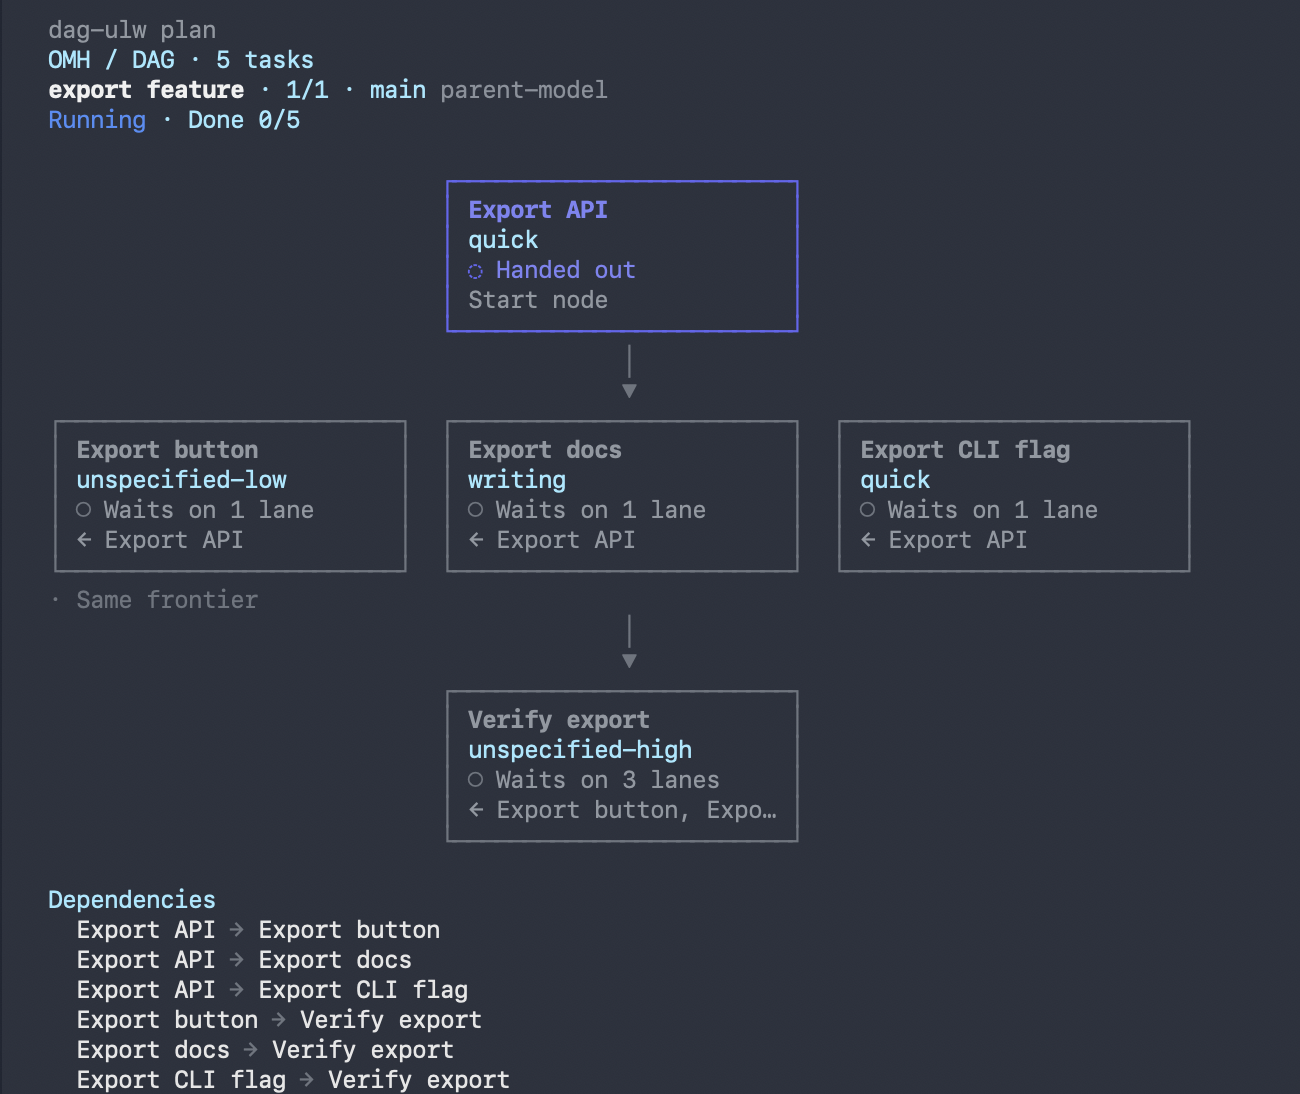
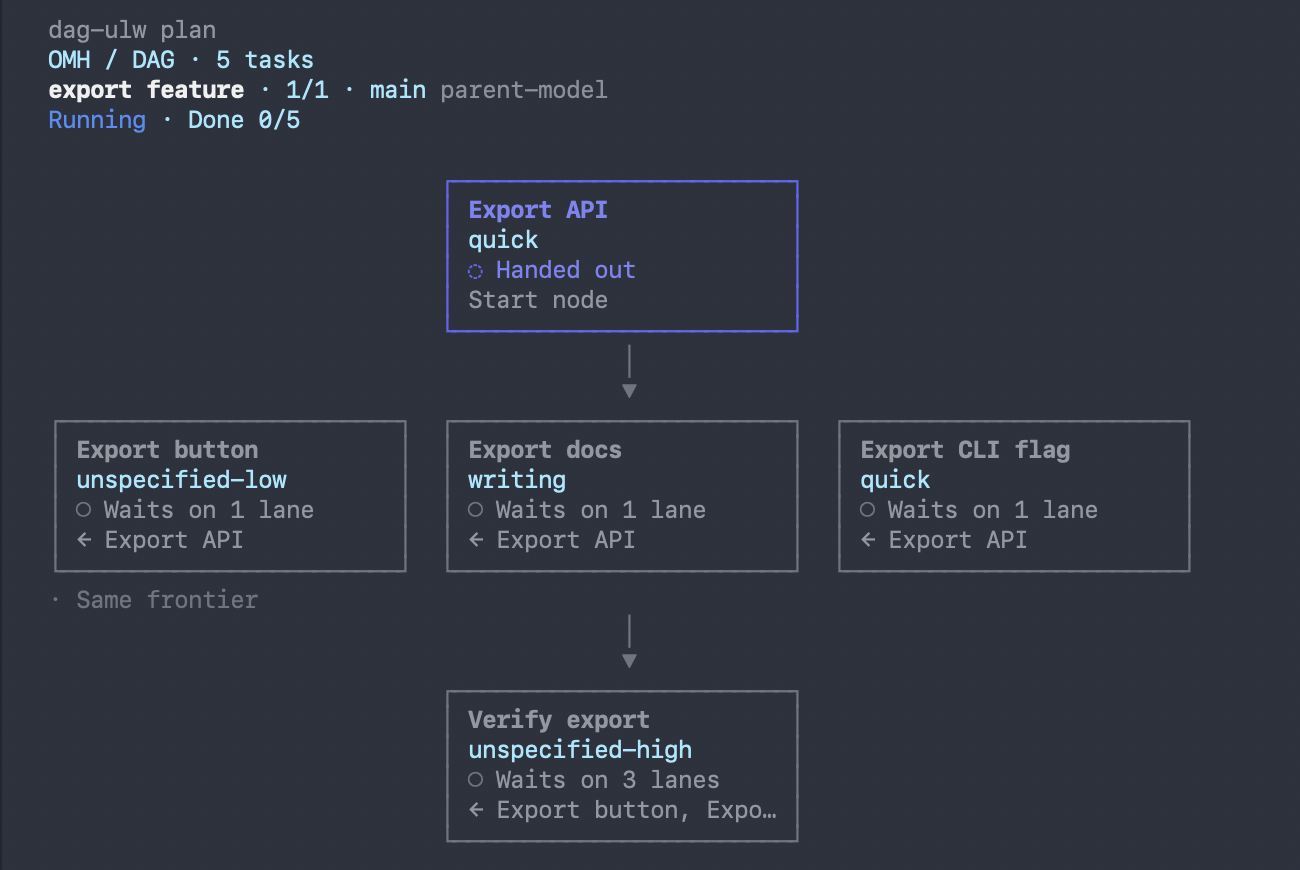
fix(tui): switch the dag print on its lane count, keeping every box of a small run
The first commit condensed any print taller than the screen rows minus
the agent view and the composer. At 150x42 that budget was 28 rows.
The owner wants the ASCII box graph visible, but the GIF scene's 5-node
chain (49 rows whole) and the audit's 7-node plan (39 rows) were each
cut to one box at define.

- dag_block: the switch is now the run's lane count, hidden lanes
  included. A run of up to 12 lanes (SMALL_GRAPH_LANES) prints every box
  and arrow, at define, repair, extend and end; at the end, the boxes'
  final states are the tally. A bigger run keeps the condensed form. No
  print holds the Dependencies list or the Node details: the arrows draw
  every edge, and /dag keeps both.
- app: the rows budget (_dag_print_rows, DAG_PRINT_RESERVED_ROWS,
  DAG_PRINT_MIN_ROWS) is gone. The height of the terminal no longer
  decides whether the graph is shown.
- assets/omh-tui-dag-ulw-plan-block.png: cropped above the Dependencies
  list, which the print no longer has; the boxes above it are unchanged.

Constraint: owner direction via team-lead: a small graph must show every box; a terminal's height must not decide it
Rejected: fold a lone parent's "← parent" row into the arrow above the box | it changes the shared box renderer that /dag and omh hud --graph use, and the V5 box look the owner approved, to save one row per box; a 5-chain still would not fit a 42-row screen
Confidence: high
Scope-risk: narrow
[…]

diff --git a/tests/test_dag_transcript.py b/tests/test_dag_transcript.py
@@ -118,11 +118,12 @@ class BlockTests(unittest.TestCase):
         block = dag_block.DagBlock("repair · +1 node", repaired)
         boxes, tree = self._text(block, 140), self._text(block, 24)
         self.assertEqual(boxes[0].strip(), "dag-ulw repair · +1 node")
-        # As boxes: the drawing's own repair mark, a parents line naming the node it repairs, and the repair edge
-        # under Dependencies; the block adds no mark of its own, so none is doubled.
+        # As boxes: the drawing's own repair mark, a parents line naming the node it repairs and the arrow into its
+        # box; the block adds no mark of its own, so none is doubled. No Dependencies list: the arrows are the edges.
         added = next(index for index, line in enumerate(boxes) if "↻ Fix the button" in line)
         self.assertIn("← Export button", boxes[added + 3])
-        self.assertIn("Export button → Fix the button (repair)", "\n".join(boxes))
+        self.assertIn("▼", boxes[added - 2])
+        self.assertNotIn("Dependencies", "\n".join(boxes))
         self.assertFalse([line for line in boxes if "+ " in line and "Fix" in line], boxes)
         # As the tree: nested under the node it repairs.
         failed = next(index for index, line in enumerate(tree) if "Export bu" in line)
@@ -185,22 +186,37 @@ def big_run(sizes: tuple[int, ...], states: dict[str, str] | None = None) -> dic
 
 
 class CondensedTests(unittest.TestCase):
-    """A print bigger than about one screen is condensed: its header, a row per layer, the boxes the moment changed
-    and how many nodes it leaves to `/dag`; a big run's end is its tally and the nodes that stopped."""
+    """A run of up to `SMALL_GRAPH_LANES` lanes prints every box; a bigger one is condensed: its header, a row per
+    layer, the boxes the moment changed and how many nodes it leaves to `/dag`; a big run's end is its tally and the
+    nodes that stopped. Neither prints Dependencies or Node details, which `/dag` keeps."""
 
     @staticmethod
     def _text(block: dag_block.DagBlock, width: int = 140) -> list[str]:
         return ["".join(span.text for span in line) for line in block_rows(block, width, THEME)]
 
-    def test_a_print_that_fits_is_drawn_whole_and_a_bigger_one_condensed(self) -> None:
-        small, big = big_run((2, 1)), big_run((4, 40, 1))
-        whole = self._text(dag_block.DagBlock("plan", small))
-        self.assertEqual(self._text(dag_block.DagBlock("plan", small, max_rows=len(whole))), whole, "it fits")
-        self.assertIn("Dependencies", "\n".join(whole))
-        unbounded = self._text(dag_block.DagBlock("plan", big))
-        condensed = self._text(dag_block.DagBlock("plan", big, max_rows=30))
-        self.assertGreater(len(unbounded), 100)
-        self.assertLessEqual(len(condensed), 30)
+    def test_twelve_lanes_print_every_box_and_thirteen_condense(self) -> None:
+        self.assertEqual(dag_block.SMALL_GRAPH_LANES, 12)
+        small = self._text(dag_block.DagBlock("plan", big_run((4, 7, 1))))
+        text = "\n".join(small)
+        self.assertEqual([index for index in range(1, 14) if f"Migrate service {index} config " in text],
+                         list(range(1, 13)), "every box")
+        self.assertIn("┌", text)
+        self.assertTrue(any("│" in line and "Waiting" in line for line in small))
+        for gone in ("Dependencies", "Node details", "more nodes", "layer 1 ·"):
+            self.assertNotIn(gone, text)
+        big = self._text(dag_block.DagBlock("plan", big_run((4, 8, 1))))
+        self.assertEqual([line.strip() for line in big[:5]], [
+            "dag-ulw plan", "DAG · service migration · 13 nodes · 9 edges · 13 waiting",
+            "layer 1 · 4 nodes · 4 waiting", "layer 2 · 8 nodes · 8 waiting", "layer 3 · 1 node · 1 waiting"])
+        self.assertEqual(big[-1].strip(), "… 9 more nodes · /dag shows the whole graph")
+        # Lanes the graph reader left out count: 12 drawn and 1 hidden is a run of 13.
+        hidden = self._text(dag_block.DagBlock("plan", {**big_run((4, 7, 1)), "hidden_nodes": 1}))
+        self.assertEqual(hidden[-1].strip(), "… 9 more nodes · /dag shows the whole graph")
+
+    def test_a_big_print_is_condensed_whatever_the_screen(self) -> None:
+        big = big_run((4, 40, 1))
+        condensed = self._text(dag_block.DagBlock("plan", big))
+        self.assertLessEqual(len(condensed), 20)
         self.assertEqual([line.strip() for line in condensed[:5]], [
             "dag-ulw plan", "DAG · service migration · 45 nodes · 41 edges · 45 waiting",
             "layer 1 · 4 nodes · 4 waiting", "layer 2 · 40 nodes · 40 waiting", "layer 3 · 1 node · 1 waiting"])
@@ -214,13 +230,13 @@ class CondensedTests(unittest.TestCase):
 
     def test_a_layer_cut_by_the_graph_reader_says_what_it_kept_of_how_many(self) -> None:
         big = {**big_run((4, 40, 1)), "hidden_by_group": {"layer 2": 600}, "hidden_nodes": 600}
-        condensed = self._text(dag_block.DagBlock("plan", big, max_rows=30))
+        condensed = self._text(dag_block.DagBlock("plan", big))
         self.assertEqual(condensed[3].strip(), "layer 2 · 40 of 640 nodes · 40 waiting")
         self.assertEqual(condensed[-1].strip(), "… 641 more nodes · /dag shows the whole graph")
 
     def test_a_repair_draws_the_nodes_it_added_naming_what_they_wait_on(self) -> None:
         big = big_run((4, 40, 1), {"n1": "done", "n6": "failed", "n7": "running"})
-        condensed = self._text(dag_block.DagBlock("repair · +1 node", big, max_rows=30, added=("n7",)))
+        condensed = self._text(dag_block.DagBlock("repair · +1 node", big, added=("n7",)))
         self.assertEqual(condensed[3].strip(), "layer 2 · 40 nodes · 1 running · 1 failed · 38 waiting")
         boxes = [line for line in condensed if "│" in line]
         self.assertEqual([line.strip(" │") for line in boxes], [
@@ -230,10 +246,16 @@ class CondensedTests(unittest.TestCase):
     def test_a_big_runs_end_is_its_tally_and_the_nodes_that_stopped(self) -> None:
         states = {f"n{index}": "done" for index in range(1, 46)}
         states.update(n2="failed", n9="stuck")
-        condensed = self._text(dag_block.DagBlock("end · failed", big_run((4, 40, 1), states), max_rows=30))
+        condensed = self._text(dag_block.DagBlock("end · failed", big_run((4, 40, 1), states)))
         self.assertEqual([line.strip() for line in condensed], [
             "dag-ulw end · failed", "DAG · service migration · 45 nodes · 41 edges · 1 stuck · 1 failed · 43 done",
             "✗ Migrate service 2 config · failed", "! Migrate service 9 config · stuck"])
+        # A small run's end is its boxes in their final states: they are the tally.
+        small = self._text(dag_block.DagBlock("end · failed", big_run((2, 1), {"n1": "done", "n2": "failed",
+                                                                               "n3": "done"})))
+        self.assertEqual(sum("┌" in line for line in small), 2, "two frontiers of boxes")
+        self.assertEqual([word for word in ("✓ Done", "✗ Failed") if any(word in line for line in small)],
+                         ["✓ Done", "✗ Failed"])
 
 
 def turn_ended() -> Event:
@@ -275,10 +297,7 @@ class AppTests(unittest.TestCase):
         self.assertEqual(self._titles(app), ["plan", "repair · +1 node", "end · done", "extend · +2 nodes"])
         self.assertEqual(dag_run.DAG_SCHEMA_VERSION, "omh_dag/v1")
 
-    def test_each_print_may_take_about_one_screen_whole_and_a_repair_names_what_it_added(self) -> None:
-        from omh.tui.app import DAG_PRINT_MIN_ROWS, DAG_PRINT_RESERVED_ROWS
-        from omh.tui.layout import agent_view_cap
-
+    def test_a_repair_print_names_the_nodes_it_added(self) -> None:
         with homes() as home:
             results = run_results(home)
             graph = build_delegation_graph(home.omh, home.hermes, PARENT)
@@ -288,11 +307,8 @@ class AppTests(unittest.TestCase):
         app._on_event(turn_ended())
         blocks = [block for block in app.transcript.blocks + app.transcript._held
                   if isinstance(block, dag_block.DagBlock)]
-        screen = 60 - agent_view_cap(60, 140) - DAG_PRINT_RESERVED_ROWS
-        self.assertEqual([(block.title, block.max_rows, block.added) for block in blocks], [
-            ("plan", screen, ()), ("repair · +1 node", screen, ("ui-fix",)), ("end · done", screen, ())])
-        app.size = (140, 16)
-        self.assertEqual(app._dag_print_rows(), DAG_PRINT_MIN_ROWS, "a short screen still prints a small graph whole")
+        self.assertEqual([(block.title, block.added) for block in blocks], [
+            ("plan", ()), ("repair · +1 node", ("ui-fix",)), ("end · done", ())])
 
     def test_an_end_the_same_turn_extends_prints_nothing_and_the_last_end_prints_once(self) -> None:
         with homes() as home:

diff --git a/src/tui/dag_block.py b/src/tui/dag_block.py
@@ -21,14 +21,15 @@ messenger: a chat reply carries its three moments and no boxes.
 `topology_lines` is the other half of a run's picture: `/dag` closes the
 whole graph with the run's critical path and bottlenecks.
 
-A print that fits about one screen (`DagBlock.max_rows`: the rows the
-composer, the working rows and the agent view leave) is drawn whole, as
-above. A bigger graph prints condensed (`_condensed`): its header, one row
-per layer with its counts, the boxes of the frontier the moment changed (the
+The print holds no Dependencies list and no Node details: the arrows draw
+every edge, and `/dag` keeps both. A run of up to `SMALL_GRAPH_LANES` lanes
+prints every box, at its end too, where the boxes' final states are the
+tally. A bigger run prints condensed (`_condensed`): its header, one row per
+layer with its counts, the boxes of the frontier the moment changed (the
 first layer at ``define``, the added nodes at ``repair`` and ``extend``),
-and `… N more nodes · /dag shows the whole graph`; no Dependencies and no
-Node details, which `/dag` keeps. A big run's end is its tally and the
-nodes that failed or are stuck.
+and `… N more nodes · /dag shows the whole graph`; its end is its tally and
+the nodes that failed or are stuck. The switch is the lane count, never the
+terminal's height: the owner sees a small run's graph whole.
 """
 
 from __future__ import annotations
@@ -53,7 +54,6 @@ class DagBlock:
     title: str  # what the moment is: "plan", "repair · +1 node", "extend · +3 nodes", "end · done"
     graph: Mapping[str, Any]
     done: bool = True
-    max_rows: int | None = None  # the rows a whole print may take; a bigger one prints condensed (None: always whole)
     added: tuple[str, ...] = ()  # the dag node ids a repair or an extend added: the boxes a condensed print draws
 
 
@@ -102,18 +102,22 @@ def read_graph(omh_home: str | None, hermes_home: str | None, session: str) -> M
 
 
 def rows(block: DagBlock, width: int, theme: Theme) -> list[Line]:
-    """The block's rows: its moment, then the graph as boxes, or the tree where boxes do not fit ``width``."""
-    from ..plugin_bundle.omh.delegation_view import render_delegation_view
+    """The block's rows: its moment, then the graph as boxes without Dependencies and Node details, or the tree
+    where boxes do not fit ``width``; condensed past `SMALL_GRAPH_LANES` lanes."""
+    from ..plugin_bundle.omh.delegation_view import UNICODE, _box_view, render_delegation_view
     from .panels import dag_line
 
-    view = render_delegation_view(block.graph, width=max(8, width - len(INDENT)), layout="box")
+    if _lane_count(block.graph) > SMALL_GRAPH_LANES:
+        return _condensed(block, width, theme)
     lines = [truncate_line((Span(f"{INDENT}dag-ulw {block.title}", theme.muted),), width)]
-    lines += [truncate_line((Span(INDENT), *dag_line(row, view.levels, theme)), width) for row in view.lines]
-    if block.max_rows is None or len(lines) <= block.max_rows:
-        return lines
-    return _condensed(block, width, theme)
+    drawn = _box_view(block.graph, max(8, width - len(INDENT)), UNICODE, sections=0)
+    if drawn is not None:
+        return lines + [truncate_line((Span(INDENT), *dag_line(row, 1, theme)), width) for row in drawn.lines]
+    view = render_delegation_view(block.graph, width=max(8, width - len(INDENT)), layout="tree")
+    return lines + [truncate_line((Span(INDENT), *dag_line(row, view.levels, theme)), width) for row in view.lines]
 
 
+SMALL_GRAPH_LANES = 12  # a run of up to this many lanes prints every box; a bigger one prints condensed
 CONDENSED_BOXES = 6  # the frontier boxes a condensed print draws at most
 CONDENSED_FAILURES = 8  # the failed or stuck nodes a condensed end lists at most
 MORE_NOTE = "/dag shows the whole graph"
@@ -122,6 +126,12 @@ MORE_NOTE = "/dag shows the whole graph"
 def _lanes(graph: Mapping[str, Any]) -> list[Mapping[str, Any]]:
     nodes = graph.get("nodes") if isinstance(graph.get("nodes"), list) else []
     return [node for node in nodes if isinstance(node, Mapping) and node.get("kind") != "root"]
+
+
+def _lane_count(graph: Mapping[str, Any]) -> int:
+    """The run's lanes, the ones the graph reader left out (`hidden_nodes`) included."""
+    hidden = graph.get("hidden_nodes")
+    return len(_lanes(graph)) + (hidden if isinstance(hidden, int) and not isinstance(hidden, bool) else 0)
 
 
 def _layer_lines(graph: Mapping[str, Any], width: int, theme: Theme) -> list[Line]:
@@ -189,7 +199,7 @@ def _condensed(block: DagBlock, width: int, theme: Theme) -> list[Line]:
         if drawn is not None and tops:
             lines.append(())
             lines += [truncate_line((Span(INDENT), *dag_line(row, 1, theme)), width) for row in drawn.lines[min(tops):]]
-    total = len(lanes) + (graph.get("hidden_nodes") if isinstance(graph.get("hidden_nodes"), int) else 0)
+    total = _lane_count(graph)
     if total > len(shown):
         lines.append(truncate_line((Span(f"{INDENT}… {total - len(shown):,} more nodes · {MORE_NOTE}", theme.muted),),
                                    width))

diff --git a/src/tui/app.py b/src/tui/app.py
@@ -149,7 +149,7 @@ from .keys import (
 )
 from .launch import request_fallback
 from .agent_view import AGENT_STEER_LEFT_UNANSWERED_NOTICE, STEER_SAY, TAIL_ANSWER_SECONDS, AgentViewMixin
-from .layout import Budget, agent_view_cap, choice_cap, is_tiny, slot_cap
+from .layout import Budget, choice_cap, is_tiny, slot_cap
 from .markdown import clean_text
 from .modes import (
     HERMES_OWN_CYCLE,
@@ -283,10 +283,6 @@ RESIZE_SETTLE_SECONDS = 0.15
 # A full redraw (a resize, Ctrl+L, /redraw, a switch, a resumed session) prints the transcript's last this many
 # rows; the blocks above them are counted on one row instead (`Transcript.retake_tail`) and /history shows them.
 REDRAW_TAIL_ROWS = 3000
-# A dag run's print in the transcript is drawn whole while it takes no more than the screen's rows less the
-# agent view's usual rows and these (the composer, its rules, the info line, the working rows); else condensed.
-DAG_PRINT_RESERVED_ROWS = 7
-DAG_PRINT_MIN_ROWS = 12
 EXIT_CONFIRM_SECONDS = 2.0
 # Esc pressed twice within this long: with text, clears it into this session's history; on an empty composer
 # between turns, opens the rewind picker. The info line says what the second press will do.
@@ -2094,8 +2090,7 @@ class App(ModesMixin, AgentViewMixin):
         self.dag_end_due.pop(run, None)
         graph = self._read_dag_graph()
         if graph is not None:
-            self.transcript.add_aside(dag_block.DagBlock(title, graph, max_rows=self._dag_print_rows(),
-                                                         added=tuple(_added)))
+            self.transcript.add_aside(dag_block.DagBlock(title, graph, added=tuple(_added)))
 
     def _dag_ends_due(self) -> None:
         """The run ends this turn reached, each printed once if its run is still over as the turn ends."""
@@ -2103,13 +2098,7 @@ class App(ModesMixin, AgentViewMixin):
         for title in due.values():
             graph = self._read_dag_graph()
             if graph is not None and not graph.get("dag_open"):
-                self.transcript.add_aside(dag_block.DagBlock(title, graph, max_rows=self._dag_print_rows()))
-
-    def _dag_print_rows(self) -> int:
-        """The rows a run's printed graph may take whole: about one screen, less the composer, the info line, the
-        working rows and the agent view's usual rows (`dag_block`: a bigger graph prints condensed)."""
-        rows, cols = self.size[1], self.size[0]
-        return max(rows - agent_view_cap(rows, cols) - DAG_PRINT_RESERVED_ROWS, DAG_PRINT_MIN_ROWS)
+                self.transcript.add_aside(dag_block.DagBlock(title, graph))
 
     def _read_dag_graph(self) -> Mapping[str, Any] | None:
         return self.read_dag_graph(self.environ.get("OMH_HOME") or None, self.environ.get("HERMES_HOME") or None,

diff --git a/docs/CODING-OBSERVABILITY.md b/docs/CODING-OBSERVABILITY.md
@@ -371,21 +371,21 @@ What it shows, and what it leaves as `?`:
     label, without its `[dag:<run>/<node>]` marker. The tree collapses a
     finished run to its one summary line once the turn has ended. The
     transcript keeps the run's graph as boxes, as `omh hud --graph` draws
-    them (with Dependencies and Node details), at define, at each repair and
-    extend with the added nodes marked (`↻` a repair, `+` an extend round),
-    and once at the end, when the turn that ended the run is over and the run
-    still is; where no box fits the width it is the tree. A print taller than
-    about one screen (the rows the composer, the working rows and the agent
-    view leave) is condensed: the header, one row per layer with its counts,
-    the boxes the moment changed (the first layer at define, the added nodes
-    at a repair or an extend, each naming the nodes it waits on), and
-    `… N more nodes · /dag shows the whole graph`; `/dag` keeps the
-    Dependencies and the Node details. A big run's end is its tally and the
-    nodes that failed or are stuck. A box grows toward its title up to 48
-    cells, and a title longer still is cut in its middle, at words, so its
-    end stays.
+    them, at define, at each repair and extend with the added nodes marked
+    (`↻` a repair, `+` an extend round), and once at the end, when the turn
+    that ended the run is over and the run still is; where no box fits the
+    width it is the tree. A print holds no Dependencies list and no Node
+    details: the arrows draw every edge, and `/dag` keeps both. A run of up
+    to 12 lanes prints every box, at its end too, where the boxes' final
+    states are the tally. A bigger run prints condensed: the header, one row
+    per layer with its counts, the boxes the moment changed (the first layer
+    at define, the added nodes at a repair or an extend, each naming the
+    nodes it waits on), and `… N more nodes · /dag shows the whole graph`;
+    its end is its tally and the nodes that failed or are stuck. A box grows
+    toward its title up to 48 cells, and a title longer still is cut in its
+    middle, at words, so its end stays.
 
-    ![The dag-ulw plan block in the OMH TUI transcript: Export API handed out as the start node, the button, the docs and the CLI flag waiting on it in the next frontier, and the verification node waiting on all three, with the Dependencies list under them](../assets/omh-tui-dag-ulw-plan-block.png)
+    ![The dag-ulw plan block in the OMH TUI transcript: Export API handed out as the start node, the button, the docs and the CLI flag waiting on it in the next frontier, and the verification node waiting on all three](../assets/omh-tui-dag-ulw-plan-block.png)
 
     ![A dag-ulw run in the OMH TUI mid-run: the two done layers shut, the verification node open with its child's last call and reply, the extend round hanging under it, the CSV node blocked with its child's reason, its repair running beneath it and the CSV docs beside it, each with its child's check and its own line under it, and the plan holding one item per layer](../assets/omh-tui-dag-ulw-run.png)
 

diff --git a/CHANGELOG.md b/CHANGELOG.md
@@ -7,11 +7,12 @@ All notable changes will be documented here.
 - **The dag-ulw TUI reads at a glance on a big run.** The owner's GIF review
   and an audit at 100×30, 150×42 and 200×50 found the transcript flooded by
   147–219 rows per print under the 48-node cap, and a tree whose short titles
-  left the figures ragged at the right edge. A print taller than about one
-  screen is now condensed to its header, a row per layer, the boxes the
-  moment changed and `… N more nodes · /dag shows the whole graph`; a big
-  run's end is its tally and its failed or stuck nodes. Smaller prints are
-  unchanged. Tree titles take the prompt's first clause after a short label,
+  left the figures ragged at the right edge. A print now leaves the
+  Dependencies list and the Node details to `/dag`. A run of up to 12 lanes
+  still prints every box and arrow; a bigger one prints its header, a row
+  per layer, the boxes the moment changed and
+  `… N more nodes · /dag shows the whole graph`, and its end is its tally
+  and its failed or stuck nodes. Tree titles take the prompt's first clause after a short label,
   cut at a word past 52 cells, and the figures stand in fixed columns. Boxes
   grow to 48 cells and cut a long title in its middle. Counts are the run's
   lanes and the edges between them, with thousands separators and `B`/`T`
